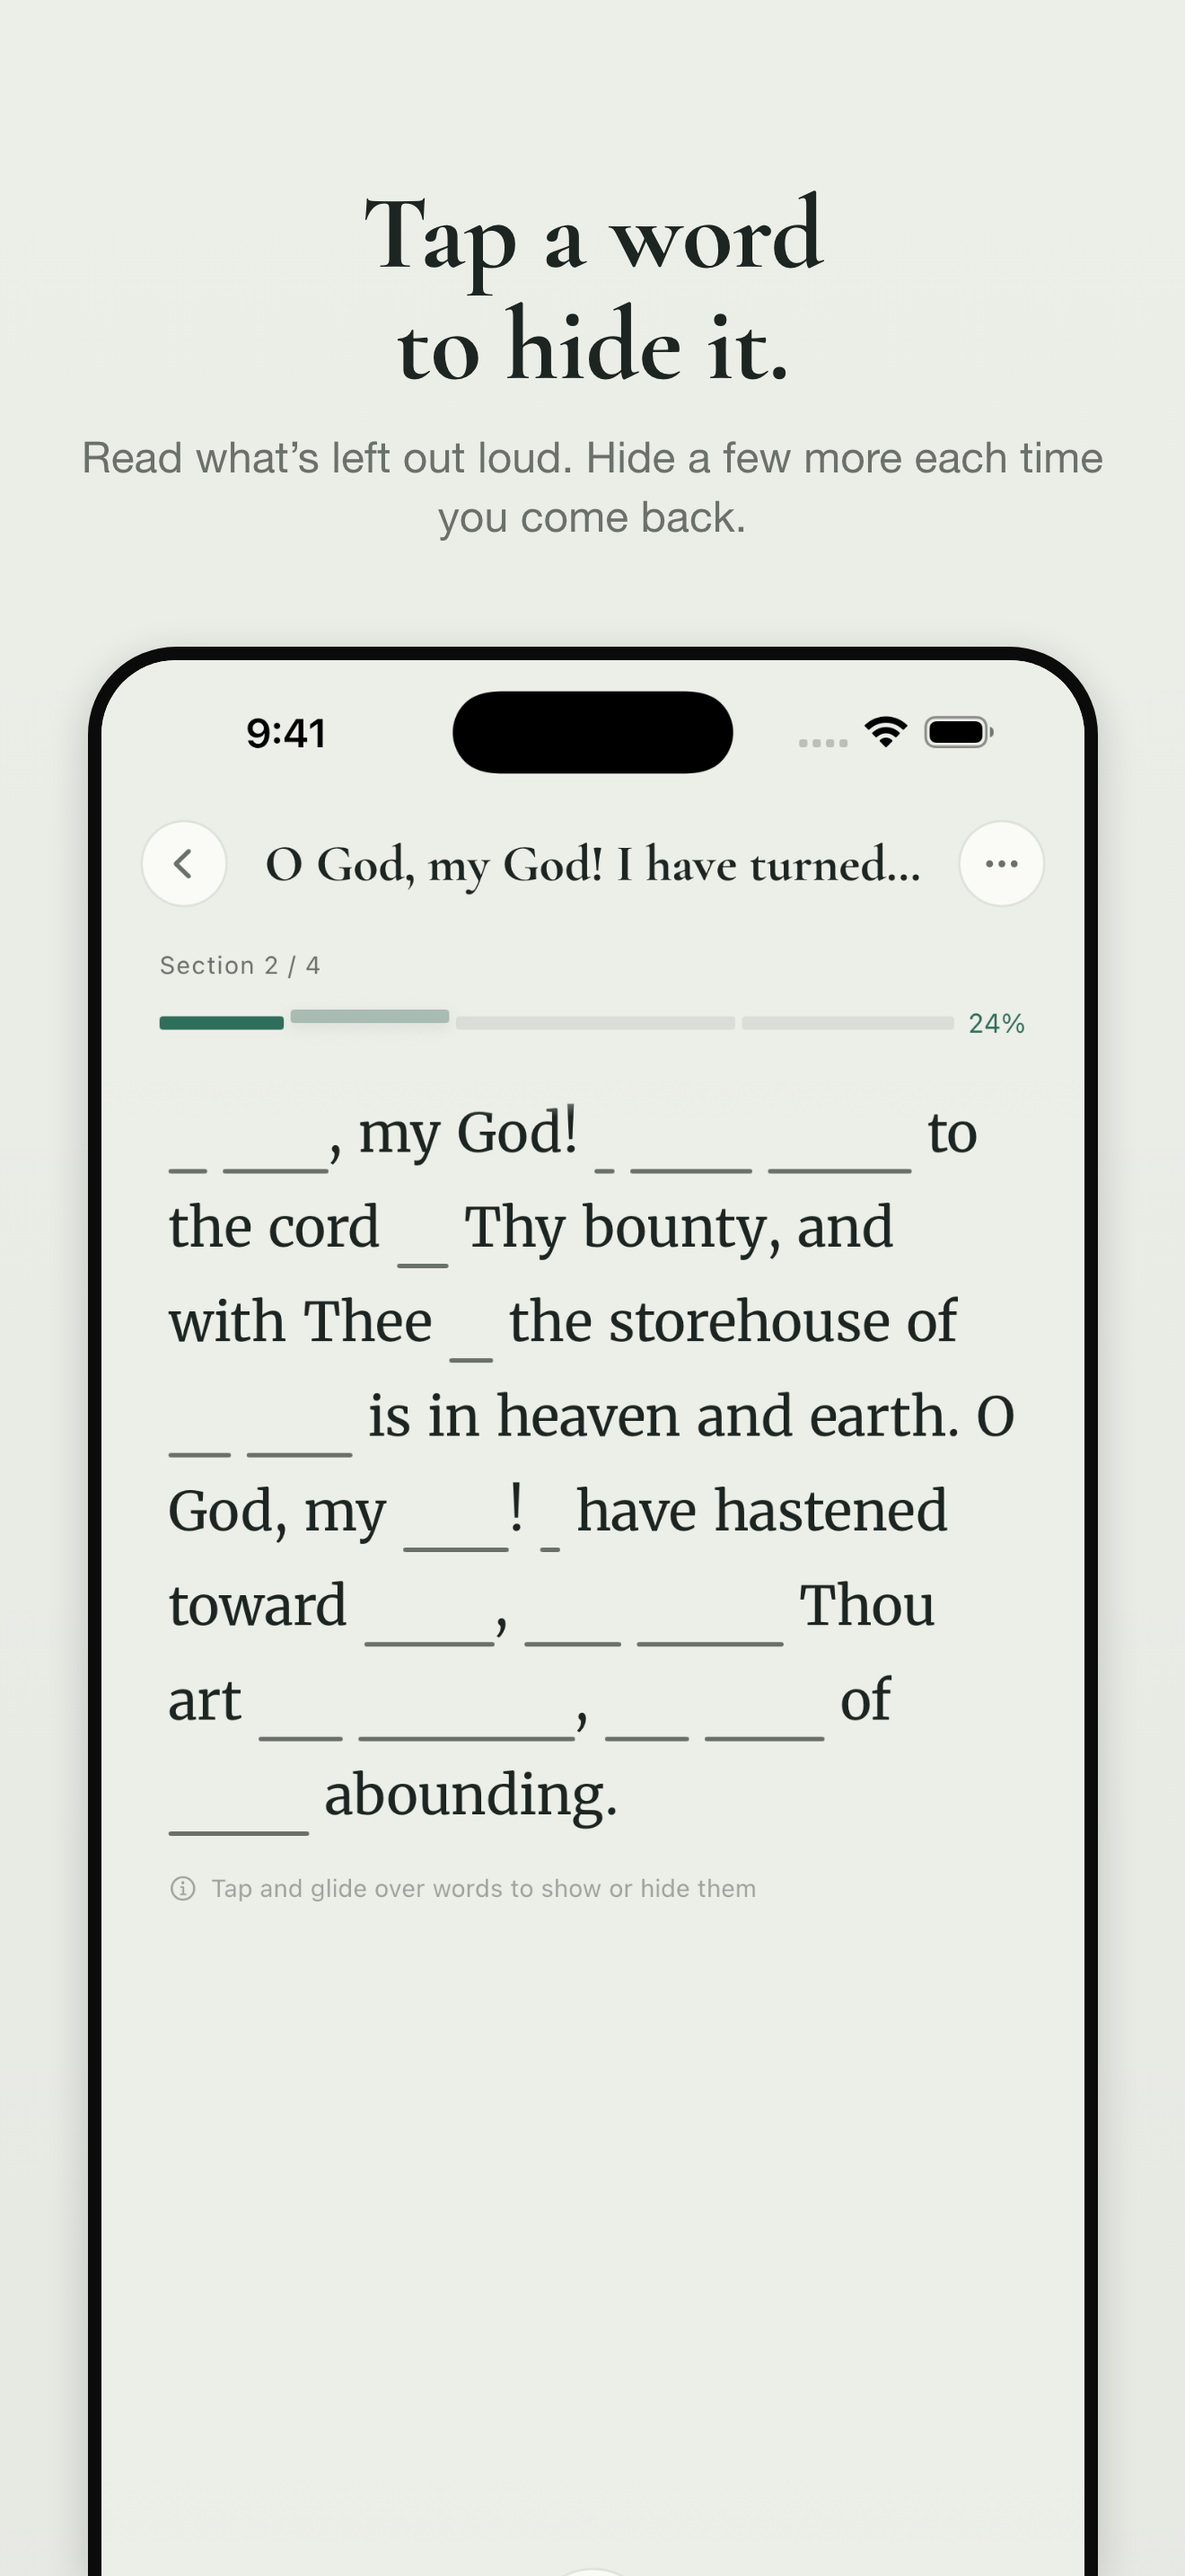
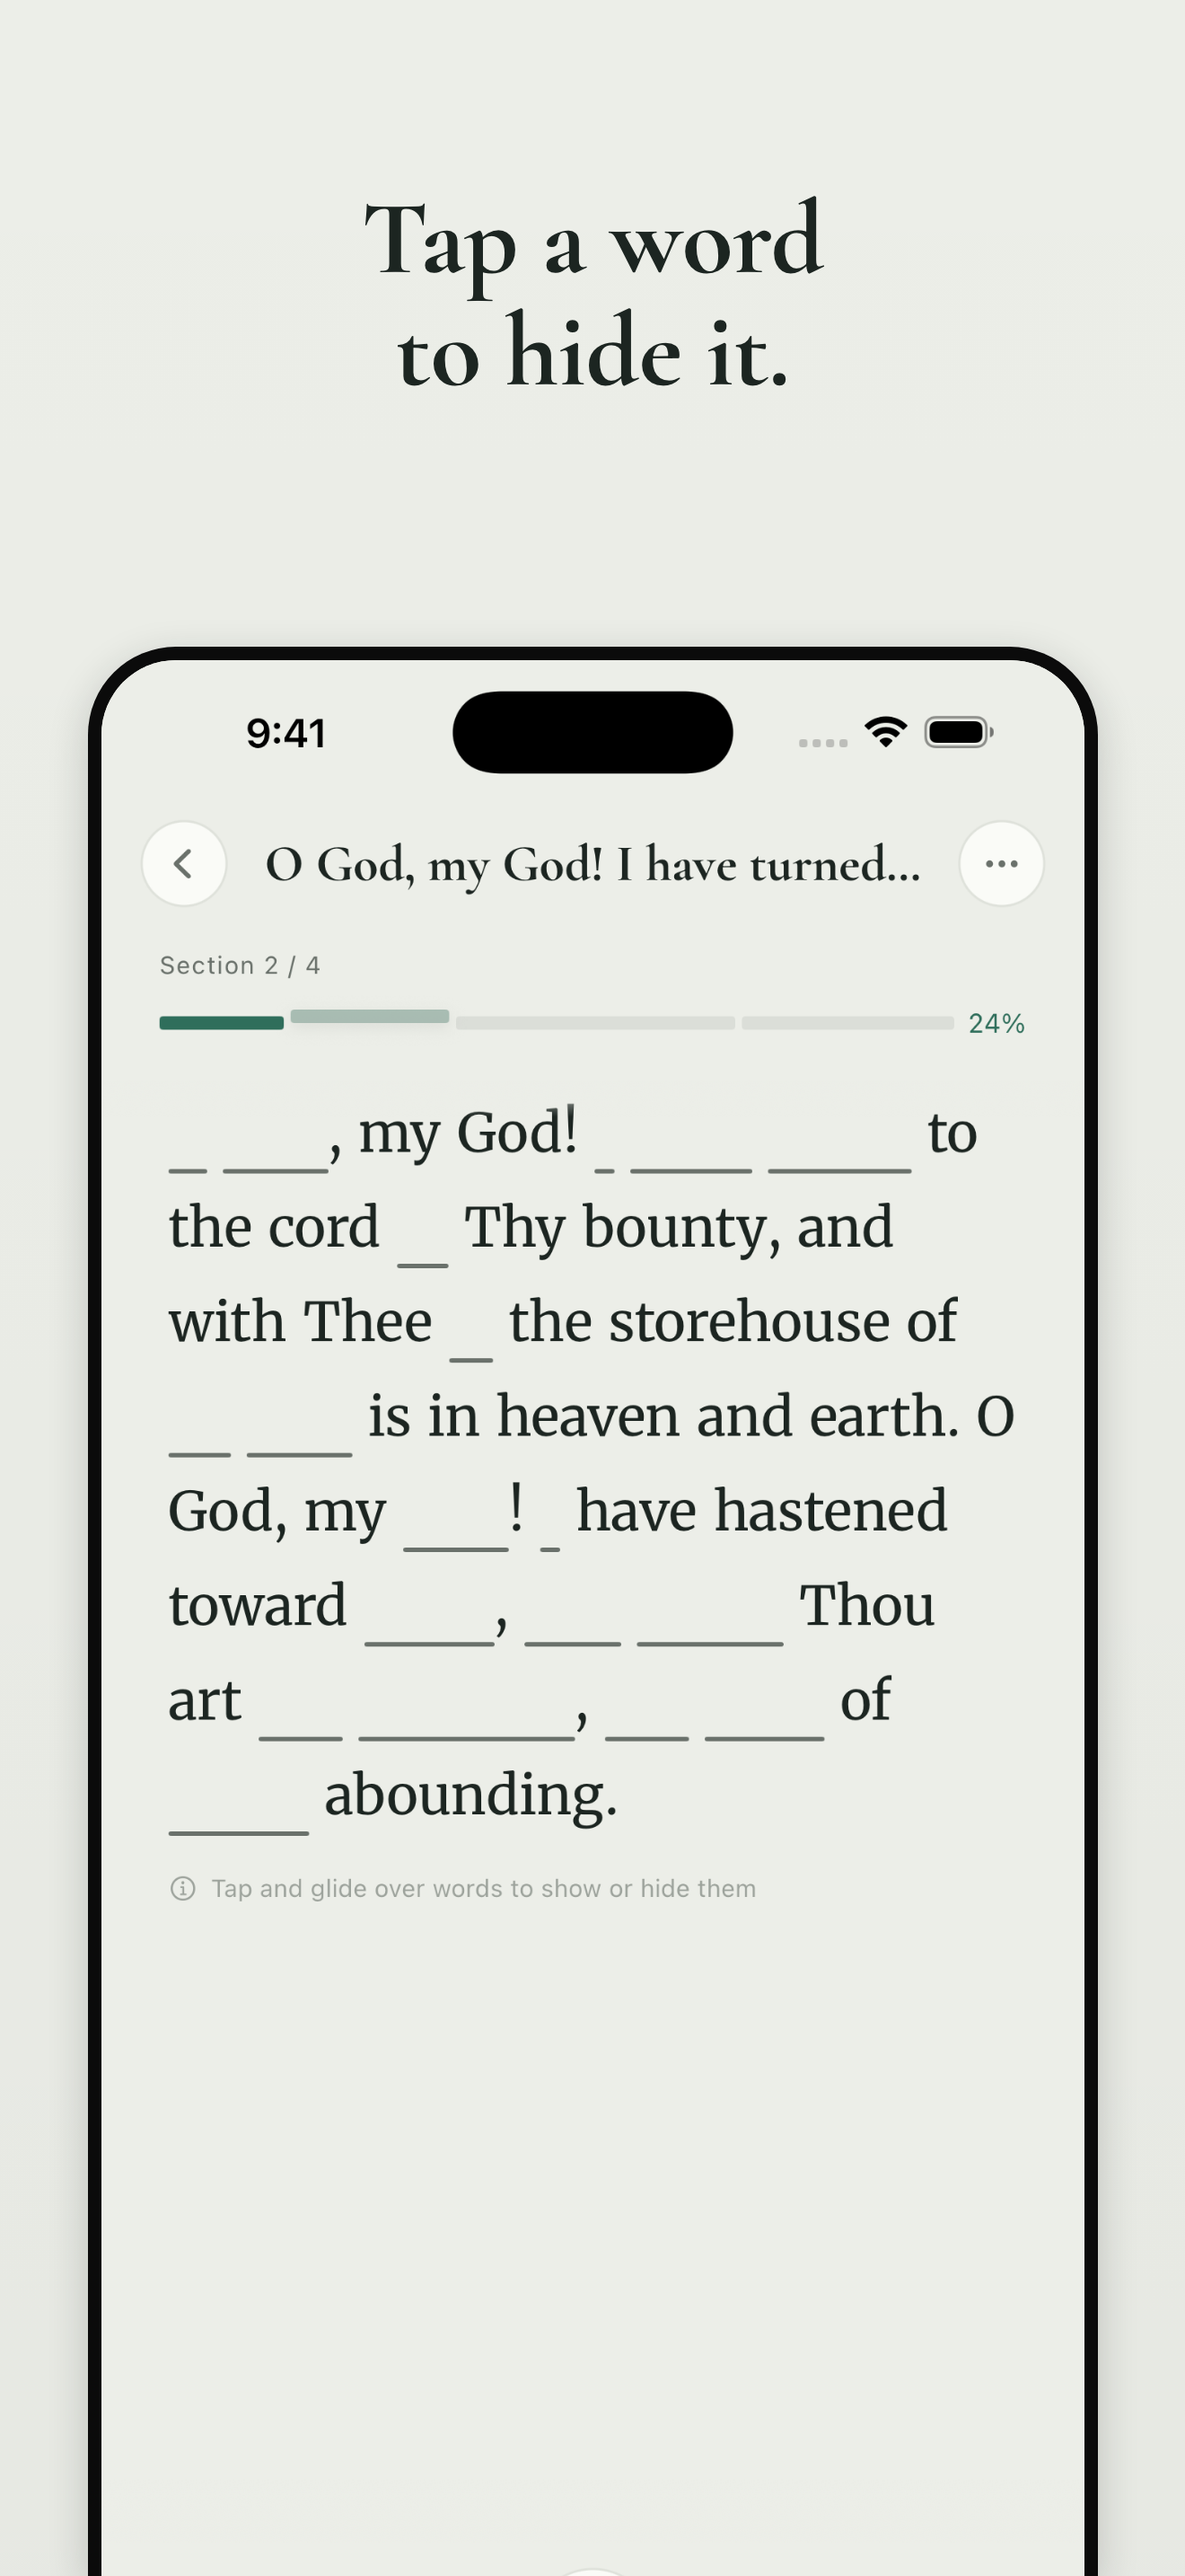
Drop the subheads from the preview tiles
One line carries the message. At the size the first tiles are shown in
search results the second line was an illegible grey band anyway.

The headline now centres in the band above the phone instead of hanging
from a fixed top, so one- and two-line headlines both sit right.

diff --git a/Design/StoreFrames/generate_store_frames.py b/Design/StoreFrames/generate_store_frames.py
@@ -1,5 +1,5 @@
 #!/usr/bin/env python3
-"""Compose App Store preview tiles: headline, subhead, and a bezelled phone.
+"""Compose App Store preview tiles: a headline over a bezelled phone.
 
 Reads the raw screenshots in store-screenshots/ and writes framed tiles beside
 them. Requires headless Chrome to rasterise; set CHROME to override the path.
@@ -35,13 +35,9 @@ DARK = dict(ground="#121212", ink="#EDEDED", muted="#9A9A9A",
 
 # Proportions lifted off the reference tile, as fractions of the canvas.
 GEOMETRY = dict(
-    headline_top=0.069,     # top of the headline's cap height
+    headline_lift=0.022,    # optical bias above dead centre of the band
     headline_size=0.089,    # em, as a fraction of canvas width
     headline_leading=1.06,
-    subhead_gap=0.0105,     # headline block to subhead
-    subhead_size=0.0365,
-    subhead_leading=1.37,
-    subhead_width=0.88,     # measure, as a fraction of canvas width
     phone_top=0.251,
     phone_width=0.852,
     bezel=0.0114,           # bezel thickness, fraction of canvas width
@@ -51,10 +47,8 @@ GEOMETRY = dict(
 IPHONE = dict(size=(1320, 2868), folder="iphone-6.9", geometry=GEOMETRY)
 IPAD = dict(size=(2064, 2752), folder="ipad-13", geometry=dict(
     GEOMETRY,
-    headline_top=0.055,
+    headline_lift=0.018,
     headline_size=0.062,
-    subhead_size=0.0255,
-    subhead_gap=0.021,
     phone_top=0.230,
     phone_width=0.780,
     bezel=0.0080,
@@ -63,29 +57,21 @@ IPAD = dict(size=(2064, 2752), folder="ipad-13", geometry=dict(
 
 TILES = [
     dict(source="1-library.png",
-         headline="See everything\nyou’re memorizing.",
-         subhead="Every passage you’ve added, and how much of it you know so far."),
+         headline="See everything\nyou’re memorizing."),
     dict(source="2-hide-words.png",
-         headline="Tap a word\nto hide it.",
-         subhead="Read what’s left out loud. Hide a few more each time you come back."),
+         headline="Tap a word\nto hide it."),
     dict(source="3-built-in-library.png",
-         headline="225 prayers,\nbuilt in.",
-         subhead="All 153 Hidden Words and 24 Ruhi passages too. Or paste your own text."),
+         headline="225 prayers,\nbuilt in."),
     dict(source="4-preview.png",
-         headline="Read a prayer\nbefore you start.",
-         subhead="Open anything in the library and read it through first."),
+         headline="Read a prayer\nbefore you start."),
     dict(source="5-dark.png", theme="dark",
-         headline="Works in dark mode.",
-         subhead="No account and no ads. Reminders only if you turn them on."),
+         headline="Works in dark mode."),
     dict(source="6-library-dark.png", theme="dark",
-         headline="Everything stays\non your iPhone.",
-         subhead="No sign-in, no sync, no tracking."),
+         headline="Everything stays\non your iPhone."),
     dict(source="7-hidden-words.png",
-         headline="All 153\nHidden Words.",
-         subhead="From the Arabic and from the Persian, complete and searchable."),
+         headline="All 153\nHidden Words."),
     dict(source="8-achievements.png",
-         headline="Seven achievements\nto earn.",
-         subhead="Memorize an obligatory prayer, a healing prayer, five Hidden Words, and more."),
+         headline="Seven achievements\nto earn."),
 ]
 
 PAGE = """<!doctype html>
@@ -107,9 +93,14 @@ PAGE = """<!doctype html>
   }}
   .copy {{
     position: absolute;
-    top: {headline_top}px;
+    top: 0;
     left: 0;
     width: {w}px;
+    height: {phone_top}px;
+    padding-bottom: {headline_lift}px;
+    display: flex;
+    align-items: center;
+    justify-content: center;
     text-align: center;
   }}
   h1 {{
@@ -120,16 +111,6 @@ PAGE = """<!doctype html>
     letter-spacing: -0.004em;
     color: {ink};
     white-space: pre-line;
-  }}
-  p {{
-    margin: {subhead_gap}px auto 0;
-    max-width: {subhead_width}px;
-    font-family: -apple-system, "Helvetica Neue", Helvetica, sans-serif;
-    font-weight: 400;
-    font-size: {subhead_size}px;
-    line-height: {subhead_leading};
-    letter-spacing: 0.002em;
-    color: {muted};
   }}
   .phone {{
     position: absolute;
@@ -151,10 +132,7 @@ PAGE = """<!doctype html>
   }}
   .screen img {{ display: block; width: 100%; }}
 </style>
-<div class="copy">
-  <h1>{headline}</h1>
-  {subhead_html}
-</div>
+<div class="copy"><h1>{headline}</h1></div>
 <div class="phone"><div class="screen"><img src="{shot}"></div></div>
 """
 
@@ -188,20 +166,15 @@ def build_page(tile, device):
     bezel = round(width * geo["bezel"])
     phone_top = round(height * geo["phone_top"])
 
-    subhead = tile.get("subhead")
     return PAGE.format(
         w=width, h=height,
         display_font=(FONTS / "CormorantGaramond-Bold.ttf").as_uri(),
         ground=theme["ground"], ink=theme["ink"], muted=theme["muted"],
         bezel=theme["bezel"], shadow=theme["shadow"], rim=theme["rim"],
         lift=0.022 if tile.get("theme") != "dark" else 0.0,
-        headline_top=round(height * geo["headline_top"]),
+        headline_lift=round(height * geo["headline_lift"]),
         headline_size=round(width * geo["headline_size"]),
         headline_leading=geo["headline_leading"],
-        subhead_gap=round(height * geo["subhead_gap"]),
-        subhead_size=round(width * geo["subhead_size"]),
-        subhead_leading=geo["subhead_leading"],
-        subhead_width=round(width * geo["subhead_width"]),
         phone_top=phone_top,
         phone_left=round((width - phone_width) / 2),
         phone_width=phone_width,
@@ -212,7 +185,6 @@ def build_page(tile, device):
         shadow_y=round(width * 0.010),
         shadow_blur=round(width * 0.034),
         headline=tile["headline"],
-        subhead_html=f"<p>{subhead}</p>" if subhead else "",
         shot=data_uri(source),
     )
 

diff --git a/Design/StoreFrames/README.md b/Design/StoreFrames/README.md
@@ -15,9 +15,13 @@ to iterate on layout in a browser.
 
 ## What it makes
 
-A headline, a one-line subhead, and the raw screenshot inside a bezelled phone that bleeds
-off the bottom edge. Input is `store-screenshots/<device>/`; a tile whose source is missing
-is skipped, which is why `--device ipad` produces three tiles and not eight.
+A headline and the raw screenshot inside a bezelled phone that bleeds off the bottom edge.
+Input is `store-screenshots/<device>/`; a tile whose source is missing is skipped, which is
+why `--device ipad` produces three tiles and not eight.
+
+The headline is centred in the band above the phone rather than hung from a fixed top, so
+one-line and two-line headlines both sit right without a per-tile nudge. Line breaks are
+explicit `\n` in the headline string — the measure is never the thing that decides them.
 
 Every output is asserted to be exactly the size App Store Connect demands — 1320×2868 for
 iPhone, 2064×2752 for iPad. Regenerate after any reshoot; the tiles embed the screenshot,
@@ -30,9 +34,10 @@ measured off the reference tile, so the same numbers compose both devices. Chang
 fraction and both sizes move together. `IPAD` overrides only the fractions that must
 differ — its canvas is far squarer, so headline and phone both have to shrink.
 
-**Headlines carry the whole message.** Only the first two or three tiles appear in search
-results, at roughly 150px wide, where the subhead is an illegible grey band. Keep the
-headline to five words or fewer and let it say what the screen does.
+**The headline carries the whole message — there is no subhead.** Only the first two or
+three tiles appear in search results, at roughly 150px wide, where body copy is an
+illegible grey band. Keep the headline to five words or fewer and let it say what the
+screen does.
 
 **Every claim in the copy has to hold against the build, not against the last listing.**
 The counts are hardcoded here, so re-derive them from `library.json` whenever it is rebuilt —
